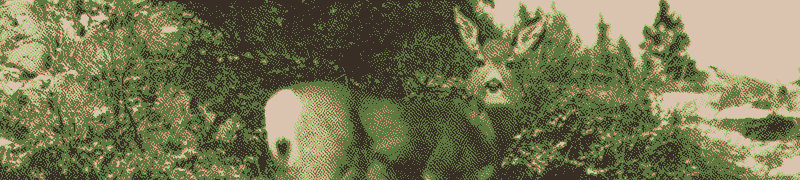
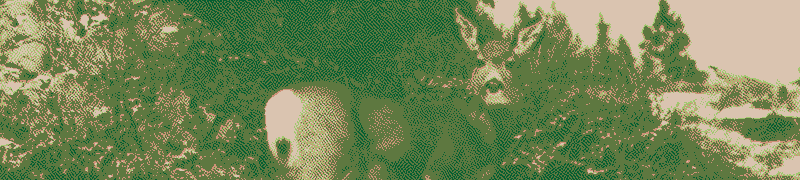
homepage real

diff --git a/index.html b/index.html
@@ -11,82 +11,96 @@
 
   <body> 
     
-    <div id="allcontaining"> 
-        <div id="header"> 
-          <br>
-            <div id="linkbutton">
-              <div id="logo"">
-                <h1 style=""><a href="index.html" style="text-decoration: none;"><i>Deer Mask Archive</i></a></h1>
-              </div>
-            </div>
-        </div> 
-      
-      <main style="background-image: url(assets/webassets/greenpool\(1\).png); background-size: cover;">
-        <div id="bodyflexwrapper">
-
-            <div id="sidebar">
-              
-                <div id="linkbutton"> <h1 style="font-family: IBM;  margin: 5px"><a href="photography.html" style="text-decoration: none"><i>/photos</i></a></h1></div>
-               
-                  <div id="linkbutton"> <h1 style="font-family: IBM;  margin: 5px"><a href="misc.html" style="text-decoration: none"><i>/stuff</i></a></h1> </div>
-                  <div id="linkbutton"> <h1 style="font-family: IBM;  margin: 5px"><a href="links.html" style="text-decoration: none"><i>/links</i></a></h1> </div>
-                  <div id="linkbutton"> <h1 style="font-family: IBM;  margin: 5px"><a href="about.html" style="text-decoration: none"><i>/info</i></a></h1> </div>
-                
-            </div>
+   <main>
+        
           
-          <div id="maincontent">
-              <div class="ticker-container">
+            <header>
+              <div id="logo">
+                <h1><i>Deer Mask Archive</i></h1>
+                <p style="margin-top: -30px; margin-left: 700px; font-size: 25px;"><i>ver 4.0</i></p>
+              </div>
+            </header>
+      <div class="ticker-container">
                 <div class="ticker-wrapper">
                   <div class="ticker-transition">
-                    
+                    <div class="ticker-item" style="font-family: IBM;">"In a beautiful place out in the country."</div>
                     <div class="ticker-item" style="font-family: IBM;">"As a child, I considered such unknowns sinister. Now, though, I understand they bear no ill will. The universe is, and we are."  </div>
                     
                   </div>
                   </div>
                 </div>
+      <flexcontainer>
 
-              <div id="triflexwrapper"> <!--For three image display, reused from old buttons template-->
+            <sidebar>
+              
+                  <div id="linkbutton"> <h1><a href="photography.html" style="text-decoration: none"><i>/photos</i></a></h1></div>
+                  <div id="linkbutton"> <h1><a href="misc.html" style="text-decoration: none"><i>/stuff</i></a></h1> </div>
+                  <div id="linkbutton"> <h1><a href="links.html" style="text-decoration: none"><i>/links</i></a></h1> </div>
+                  <div id="linkbutton"> <h1><a href="about.html" style="text-decoration: none"><i>/about</i></a></h1> </div>
+                
+            </sidebar>
+          
+          <maincontent>
+            <h1>Welcome</h1>
+             <p>Hi! I'm Ari, a biologist/vaguely creative person. This webpage is my personal library to catalog the ever-growing amorphous mass of my creative endeavours and scattered interests. What started off as a small experiment in HTML development quickly became a hobby in and of itself, and the website has changed quite a bit in the few years since its inception. Enjoy the sights and look around.</p>
+            <p>  Please note that this site is not mobile-friendly, and is best viewed on a 1920 x 1080 display.</p>
+            <div id="triflexwrapper"> 
 
                 <div id="tridisplay">
-                  <img src="assets/webassets/funky.png">
+                  <img src="assets/webassets/funky.png" alt="A sample of E. Coli in a Petri dish">
                 </div>
 
                 <div id="tridisplay">
-                  <img src="assets/webassets/cloud.png">
+                  <img src="assets/webassets/cloud.png" alt="A picture of Cloud, from Final Fantasy VII">
                 </div>
 
                 <div id="tridisplay">
-                  <img src="assets/webassets/treeskeletons.png">
+                  <img src="assets/webassets/treeskeletons.png" alt="A stand of dead trees amidst a lush field of ferns and scrub">
                 </div>
 
               </div>
+            <p></p>
+
+             
             
-            <p>Hi! I'm Ari, and this is my webpage where I catalog some of my past projects, thoughts, art etc. It started off as an experiment in HTML development but quickly became a hobby in and of itself. </p>
-            <p>As someone with a deep-seated fascination in both older software and creative design, I suppose it was only natural to expect to be making an old-fashioned static website at some point or another. Besides, it's a lot of fun!</p>
-          
-            </div>
+          </maincontent>
             
 
-        </div>
-          
-        
-      </main>
-          <div id="indexfooter">
-           <p style=" margin-left: 105px;"> | Hosted by Github, Formatted with Firefox, Written with Visual Studio Code | ©2024 - 2026 Ari | <u><a href="credits.html" >Credits</a></u>, <u> <a href="changelog.html" >Changelog</a></u> |</h1></p>
+      </flexcontainer>
+      <flexcontainer>
+        <flexboxhalf>
+          <p>some bullshit</p>
+        </flexboxhalf>
+        <flexboxhalf>
+          <p>some more bullshit</p>
+        </flexboxhalf>
+
+      </flexcontainer>
+      
+         <div id="indexfooter">
+           <p> | Hosted by Github, Formatted with Firefox, Written with Visual Studio Code | ©2024 - 2026 Ari | <u><a href="credits.html" >Credits</a></u>, <u> <a href="changelog.html" >Changelog</a></u> |</h1></p>
           </div> 
-    </div>  
+
+      
+      </main>
+         
+     
       
   </body>
 
 <style>
-
-  body {
+body {
     
-    background-image: url("../website/assets/photography/skytrees.JPG");
+    background-image: url("assets/webassets/DSC_4258.png");
     background-size: cover;
     background-position: fixed;
   }
- 
+
+@media (prefers-color-scheme: dark) {
+  body {
+  background-image: url("assets/webassets/neon.png");  
+  }
+}
 </style>
 
 </html>

diff --git a/template.html b/template.html
@@ -23,7 +23,7 @@
       <div class="ticker-container">
                 <div class="ticker-wrapper">
                   <div class="ticker-transition">
-                    <div class="ticker-item" style="font-family: IBM;">In a beautiful place out in the country</div>
+                    <div class="ticker-item" style="font-family: IBM;">"In a beautiful place out in the country."</div>
                     <div class="ticker-item" style="font-family: IBM;">"As a child, I considered such unknowns sinister. Now, though, I understand they bear no ill will. The universe is, and we are."  </div>
                     
                   </div>
@@ -41,7 +41,10 @@
             </sidebar>
           
           <maincontent>
-            <div id="triflexwrapper"> <!--For three image display, reused from old buttons template-->
+            <h1>Welcome</h1>
+             <p>Hi! I'm Ari, a biologist/vaguely creative person. This webpage is my personal library to catalog the ever-growing amorphous mass of my creative endeavours and scattered interests. What started off as a small experiment in HTML development quickly became a hobby in and of itself, and the website has changed quite a bit in the few years since its inception. Enjoy the sights and look around.</p>
+            <p>  Please note that this site is not mobile-friendly, and is best viewed on a 1920 x 1080 display.</p>
+            <div id="triflexwrapper"> 
 
                 <div id="tridisplay">
                   <img src="assets/webassets/funky.png" alt="A sample of E. Coli in a Petri dish">
@@ -56,7 +59,7 @@
                 </div>
 
               </div>
-            
+            <p></p>
 
              
             
@@ -75,7 +78,7 @@
       </flexcontainer>
       
          <div id="indexfooter">
-           <p style=" margin-left: 105px;"> | Hosted by Github, Formatted with Firefox, Written with Visual Studio Code | ©2024 - 2026 Ari | <u><a href="credits.html" >Credits</a></u>, <u> <a href="changelog.html" >Changelog</a></u> |</h1></p>
+           <p> | Hosted by Github, Formatted with Firefox, Written with Visual Studio Code | ©2024 - 2026 Ari | <u><a href="credits.html" >Credits</a></u>, <u> <a href="changelog.html" >Changelog</a></u> |</h1></p>
           </div> 
 
       

diff --git a/css/maintheme.css b/css/maintheme.css
@@ -54,29 +54,31 @@ src: url('../assets/fonts/gameboy.ttf');
 
 header { 
   width: 100%;
-  background-color: #a0c86e;
+  background-image: url(../assets/webassets/bannerlight.png);
   height: 180px;
   border-width: 3px;
   border-style: none none solid none;
   border-color: #5e7840;
+  margin-top: -10px;
 
 }
 
 #indexfooter { /* This is the most important footer, but keep the other two to prevent some pages from breaking. Can delete it later */
-    max-width: 100%;
+   
     background-color: #a0c86e;
-    padding: -20px;
+    
     border-style: solid none none none;
     border-width: 3px;
     border-color: #5e7840;
+    height: 30px;
     
    
   }
 
   #indexfooter p{
-    font-size: 12px;
+    font-size: 16px;
     font-family: IBM;
-    margin-left: 5px;
+   margin-left: 15px;
     font-style: italic;
     
   }
@@ -132,6 +134,8 @@ line-height: 180px;
 }
 h1 {
  font-family: IBM;
+ margin-top: 5px;
+ margin-bottom: 5px;
 }
 h2,
 h3 {
@@ -142,12 +146,13 @@ font-family: IBM;
 
   a {color: black;}         /* Unvisited link  */
   a:visited {color: black;} /* Visited link    */
-  a:hover {color:white;}   /* Mouse over link */
+  a:hover {color:#5e7840;}   /* Mouse over link */
   a:active {color: white;}  /* Selected link   */
         
 
 p {
   font-family: IBM; 
+  margin-top: 5px ;
 }
 
 
@@ -233,10 +238,6 @@ font-style: italic;
    }
   
 
-header { 
-  background-color: #19232d;
-
-}
 
 #indexfooter { 
     background-color: #19232d;
@@ -258,7 +259,7 @@ color: white;
 }
   a {color: white;}         /* Unvisited link  */
   a:visited {color: white;} /* Visited link    */
-  a:hover {color:blue;}   /* Mouse over link */
+  a:hover {color: #5c8299;}   /* Mouse over link */
   a:active {color: white;}  /* Selected link   */
   
   .ticker-item {
@@ -266,5 +267,6 @@ color: white;
   }
 header {
 border-color:#40677c;
+background-image: url(../assets/webassets/bannerdark.png);
 }
   }     
